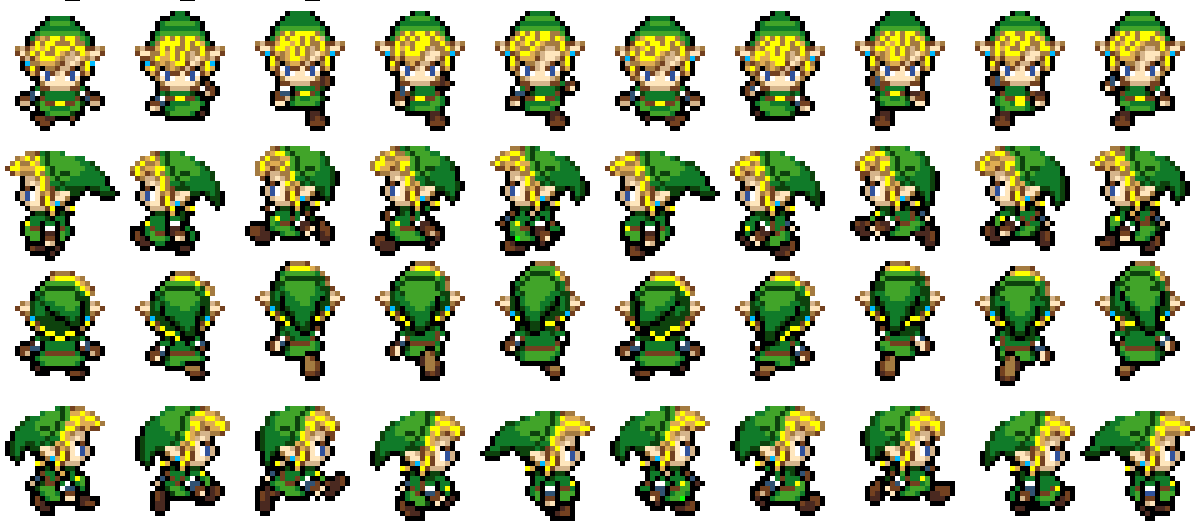
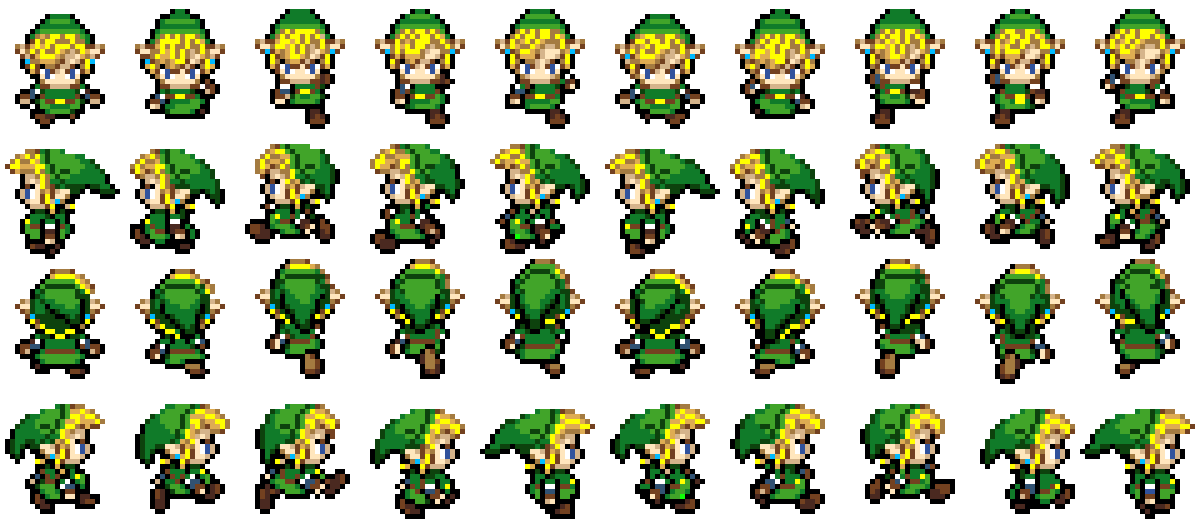
6-7

diff --git a/core/src/com/mygdx/game/entities/Player.java b/core/src/com/mygdx/game/entities/Player.java
@@ -7,6 +7,7 @@ import com.badlogic.gdx.graphics.g2d.TextureRegion;
 import com.badlogic.gdx.physics.box2d.Body;
 import com.mygdx.game.MyGdxGame;
 import com.mygdx.game.handlers.Animation;
+import com.mygdx.game.handlers.GameKeys;
 import com.mygdx.game.handlers.MyInputProcessor;
 
 import static com.mygdx.game.handlers.B2DVars.*;
@@ -15,12 +16,13 @@ public class Player extends B2DSprite {
     private TextureRegion[] sprites;
     private Texture tex;
 
+    private boolean canGo = false;
     private MyInputProcessor mip;
 
     public Player(Body body) {
         super(body);
         tex = MyGdxGame.res.getTexture("gnomik");
-        sprites = TextureRegion.split(tex, 110, 130)[0]; //110 130 - 1row, 120 130 - step
+        //sprites = TextureRegion.split(tex, 110, 130)[0]; //110 130 - 1row, 120 130 - step
 
         speed = 40f;
         animUpdate(); // ?????
@@ -31,6 +33,7 @@ public class Player extends B2DSprite {
         x = body.getPosition().x * PPM;
         y = body.getPosition().y * PPM;
         checkUserInput();
+        checkAnim();
     }
 
     private void checkUserInput() {
@@ -44,17 +47,42 @@ public class Player extends B2DSprite {
         }
         if (Gdx.input.isKeyPressed(Input.Keys.W)) {
             vely = 1;
+            canGo = true;
+        }
+        if (!Gdx.input.isKeyPressed(Input.Keys.W)) {
+            canGo = false; // -------
         }
         if (Gdx.input.isKeyPressed(Input.Keys.S)) {
             vely = -1;
         }
         body.setLinearVelocity(velx * speed, vely * speed);
     }
+
+    private void checkAnim(){ // -------
+        if ((Gdx.input.isKeyJustPressed(Input.Keys.S) & canGo == true)){
+            sprites = TextureRegion.split(tex, 120, 130)[0];
+            setAnimation(sprites, 1 / 12f);
+        }
+        if ((!Gdx.input.isKeyJustPressed(Input.Keys.S) & canGo == false)){
+            sprites = TextureRegion.split(tex, 120, 130)[0];
+            setAnimation(sprites, 1 / 12f);
+            System.out.println(canGo);
+        }
+        if ((Gdx.input.isKeyJustPressed(Input.Keys.W) & canGo == true)){
+            sprites = TextureRegion.split(tex, 120, 129)[2];
+            setAnimation(sprites, 1 / 12f);
+        }
+        if ((!Gdx.input.isKeyJustPressed(Input.Keys.W) & canGo == false)){
+            sprites = TextureRegion.split(tex, 120, 129)[2];
+            setAnimation(sprites, 1 / 12f);
+        }
+    }
+
     private void animUpdate(){
         //через myInpProccesor???
+        sprites = TextureRegion.split(tex, 110, 130)[0];
         System.out.println("true");
         setAnimation(sprites, 1 / 12f);
-        sprites = TextureRegion.split(tex, 150, 130)[0];
     }
 }
 

diff --git a/core/src/com/mygdx/game/states/Play.java b/core/src/com/mygdx/game/states/Play.java
@@ -84,9 +84,6 @@ public class Play extends GameState{
         //cam.position.set(player.getPosition().x * PPM / 2, player.getPosition().y * PPM / 2, 0);
         cam.update();
 
-        System.out.println(cam.position.x + " x cam " + player.getPosition().x + " x player" + "\n y player    " + player.getPosition().y);
-        //System.out.println(cam.position.y + " y cam " + player.getPosition().y + " y player");
-
         //draw map
         tmr.setView(cam);
         tmr.render();

diff --git a/core/src/com/mygdx/game/MyGdxGame.java b/core/src/com/mygdx/game/MyGdxGame.java
@@ -30,7 +30,7 @@ public class MyGdxGame implements ApplicationListener {
 		//Gdx.input.setInputProcessor(new MyInputProcessor());
 
 		res = new Content();
-		res.loadTexture("gnom1rowP1.png", "gnomik"); // !!!
+		res.loadTexture("gnomikStep.png", "gnomik"); // !!!
 
 		sb = new SpriteBatch();
 		cam = new BoundedCamera();
